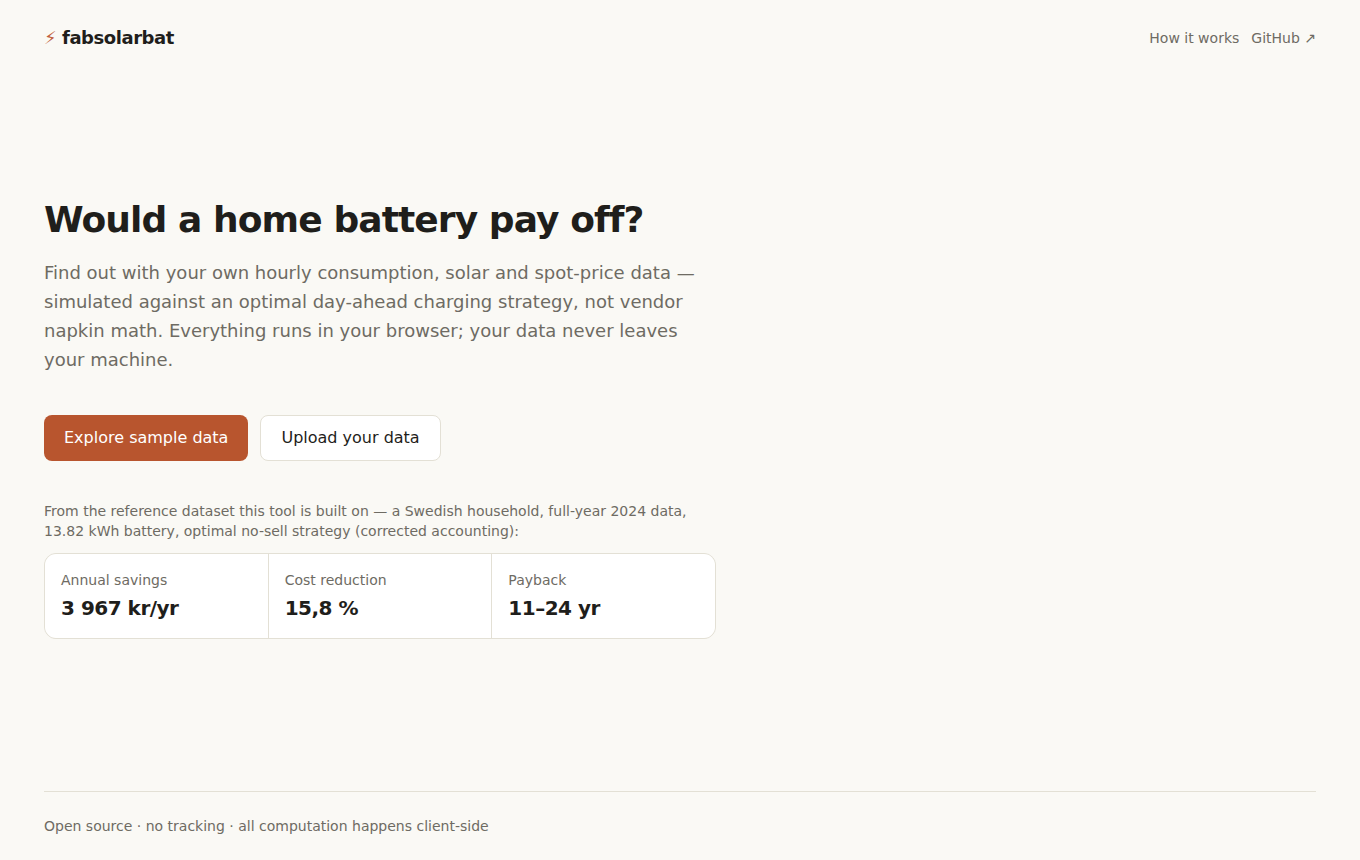
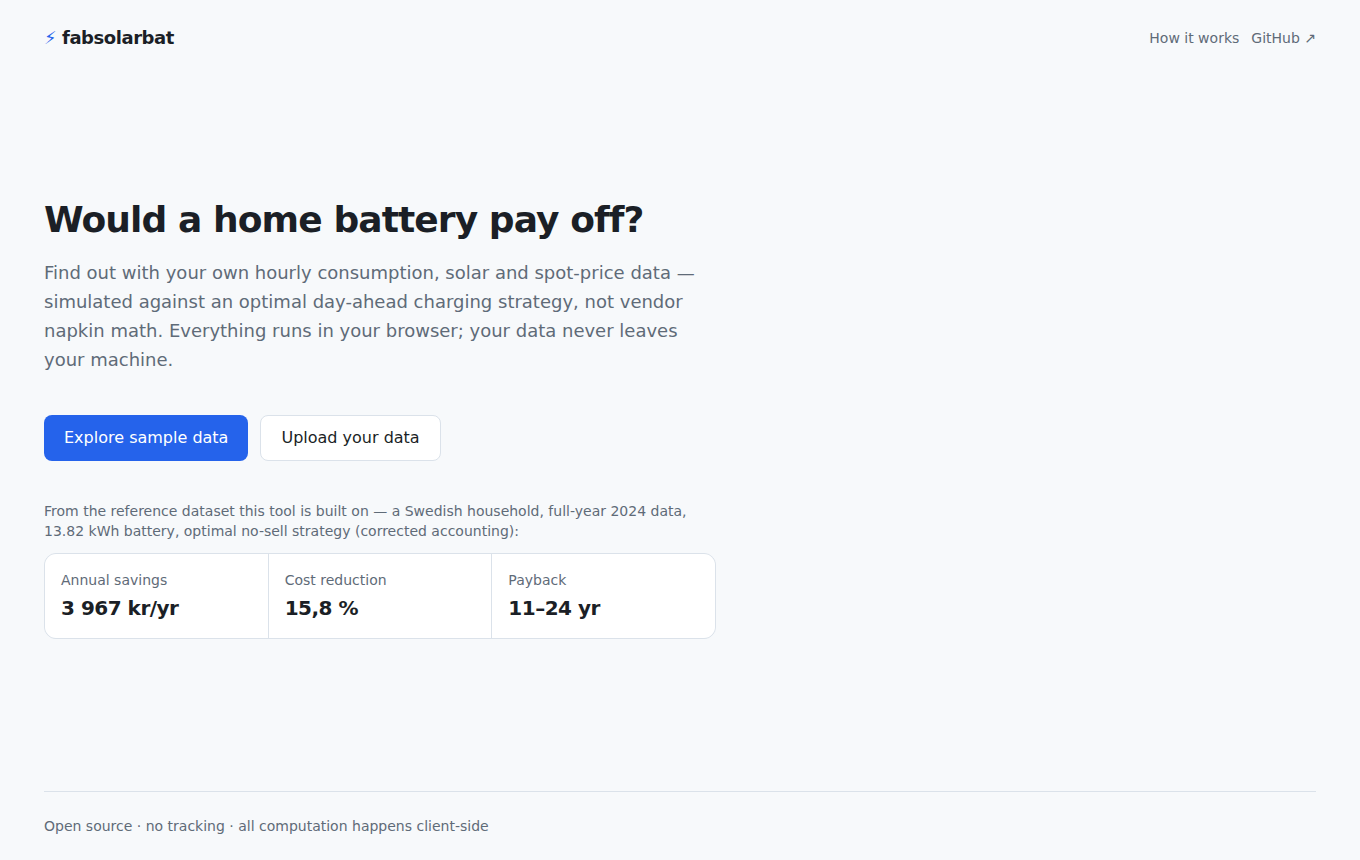
Retheme: blue accent on cool neutral grays
Replace the terracotta-on-warm-cream palette with a blue accent
(#2563eb light / #60a5fa dark) on cool neutral gray surfaces, in both
themes. All accent/text pairings verified >=4.5:1 (WCAG AA) and covered
by the axe e2e scan; with blue the filled-button variant no longer
needs a darker shade, so --accent-strong == --accent. Drill-down
grid-to-battery bars move from slate blue to violet so they stay
distinct from the now-blue battery-to-home bars. DESIGN.md token table
and README screenshots updated.

Claude-Session: https://claude.ai/code/session_018CqSDbFaA6zHNtf24hB8nC

Changed region(s): [[0.0309, 0.4837, 0.1853, 0.5442]]

diff --git a/src/index.css b/src/index.css
@@ -3,15 +3,15 @@
 /* Design tokens — docs/DESIGN.md. Semantic values switch with the color scheme;
    Tailwind utilities (bg-bg, text-text-muted, …) map onto them below. */
 :root {
-  --bg: #faf9f5;
+  --bg: #f7f9fb;
   --surface: #ffffff;
-  --surface-2: #f0eee6;
-  --border: #e3e0d5;
-  --text: #1f1e1b;
-  --text-muted: #6e6b63;
-  --accent: #c15f3c;
+  --surface-2: #edf1f5;
+  --border: #dbe2ea;
+  --text: #1b1f26;
+  --text-muted: #5f6b78;
+  --accent: #2563eb;
   /* Filled-button variant: ≥4.5:1 contrast with --on-accent text (WCAG AA). */
-  --accent-strong: #b8552e;
+  --accent-strong: #2563eb;
   --on-accent: #ffffff;
   --positive: #2e7d5b;
   --negative: #b3382e;
@@ -19,15 +19,15 @@
 
 @media (prefers-color-scheme: dark) {
   :root {
-    --bg: #1f1e1b;
-    --surface: #282724;
-    --surface-2: #31302c;
-    --border: #3d3b36;
-    --text: #f0eee6;
-    --text-muted: #a6a39a;
-    --accent: #d97757;
-    --accent-strong: #d97757;
-    --on-accent: #1f1e1b;
+    --bg: #15181d;
+    --surface: #1d2127;
+    --surface-2: #252a31;
+    --border: #363d47;
+    --text: #e7eaee;
+    --text-muted: #98a2ad;
+    --accent: #60a5fa;
+    --accent-strong: #60a5fa;
+    --on-accent: #15181d;
     --positive: #4caf8b;
     --negative: #e06156;
   }

diff --git a/src/components/DayDrilldown.tsx b/src/components/DayDrilldown.tsx
@@ -164,7 +164,7 @@ export function DayDrilldown() {
           return (
             <g key={h.t} opacity={i < day.executedHours ? 1 : 0.45}>
               {h.gridToBattery > 0.005 && (
-                <rect x={cx} y={zeroY - g2bH} width={barW} height={g2bH} fill="#5b6b9e">
+                <rect x={cx} y={zeroY - g2bH} width={barW} height={g2bH} fill="#8461a8">
                   <title>{`${hourLabel(h.t)} grid→battery ${h.gridToBattery.toFixed(2)} kWh`}</title>
                 </rect>
               )}
@@ -207,7 +207,7 @@ export function DayDrilldown() {
           solar→battery
         </span>
         <span>
-          <span className="mr-1 inline-block h-2.5 w-2.5" style={{ background: "#5b6b9e" }} />{" "}
+          <span className="mr-1 inline-block h-2.5 w-2.5" style={{ background: "#8461a8" }} />{" "}
           grid→battery
         </span>
         <span>

diff --git a/docs/DESIGN.md b/docs/DESIGN.md
@@ -1,6 +1,6 @@
 # UI / UX Design System
 
-Goal: a **modern, sleek, fast** analysis tool that feels like a crafted product, not a spreadsheet. The design language below is Claude-designed for this project: calm warm neutrals, one confident accent, generous whitespace, dense-but-legible data displays, and motion used only to communicate state.
+Goal: a **modern, sleek, fast** analysis tool that feels like a crafted product, not a spreadsheet. The design language below is Claude-designed for this project: calm cool neutrals, one confident accent, generous whitespace, dense-but-legible data displays, and motion used only to communicate state.
 
 ## Principles
 
@@ -14,21 +14,23 @@ Goal: a **modern, sleek, fast** analysis tool that feels like a crafted product,
 
 ### Color tokens
 
-Warm paper neutrals with a terracotta accent; semantic colors reserved for meaning (savings/costs), never decoration.
+Cool neutral grays with a confident blue accent; semantic colors reserved for meaning (savings/costs), never decoration. All accent/text pairings hold WCAG AA (>=4.5:1), enforced by the axe-core e2e scan.
 
 | Token | Light | Dark | Use |
 |---|---|---|---|
-| `--bg` | `#FAF9F5` | `#1F1E1B` | app background |
-| `--surface` | `#FFFFFF` | `#282724` | cards, panels |
-| `--surface-2` | `#F0EEE6` | `#31302C` | inset areas, table stripes |
-| `--border` | `#E3E0D5` | `#3D3B36` | hairlines |
-| `--text` | `#1F1E1B` | `#F0EEE6` | primary text |
-| `--text-muted` | `#6E6B63` | `#A6A39A` | labels, captions |
-| `--accent` | `#C15F3C` | `#D97757` | primary actions, focus, hero highlights |
+| `--bg` | `#F7F9FB` | `#15181D` | app background |
+| `--surface` | `#FFFFFF` | `#1D2127` | cards, panels |
+| `--surface-2` | `#EDF1F5` | `#252A31` | inset areas, table stripes |
+| `--border` | `#DBE2EA` | `#363D47` | hairlines |
+| `--text` | `#1B1F26` | `#E7EAEE` | primary text |
+| `--text-muted` | `#5F6B78` | `#98A2AD` | labels, captions |
+| `--accent` | `#2563EB` | `#60A5FA` | primary actions, focus, hero highlights |
+| `--accent-strong` | `#2563EB` | `#60A5FA` | filled-button background (paired with `--on-accent`) |
+| `--on-accent` | `#FFFFFF` | `#15181D` | text on filled accent controls |
 | `--positive` | `#2E7D5B` | `#4CAF8B` | savings, earnings |
 | `--negative` | `#B3382E` | `#E06156` | costs, warnings |
 
-Chart series palette (categorical, color-blind-checked in both themes): accent terracotta, deep teal `#2C7A8C`, ochre `#B98A2F`, slate blue `#5B6B9E`, muted plum `#8A5A7E`. Energy-flow charts use fixed semantic hues: solar = ochre, grid = slate, battery = terracotta, SoC = teal line.
+Chart series palette (categorical, color-blind-checked in both themes): accent blue, ochre `#B98A2F`, violet `#8461A8`, deep teal `#2C7A8C`, muted plum `#8A5A7E`. Energy-flow charts use fixed semantic hues: solar = ochre, grid = violet, battery = accent blue, SoC = green line.
 
 ### Typography
 